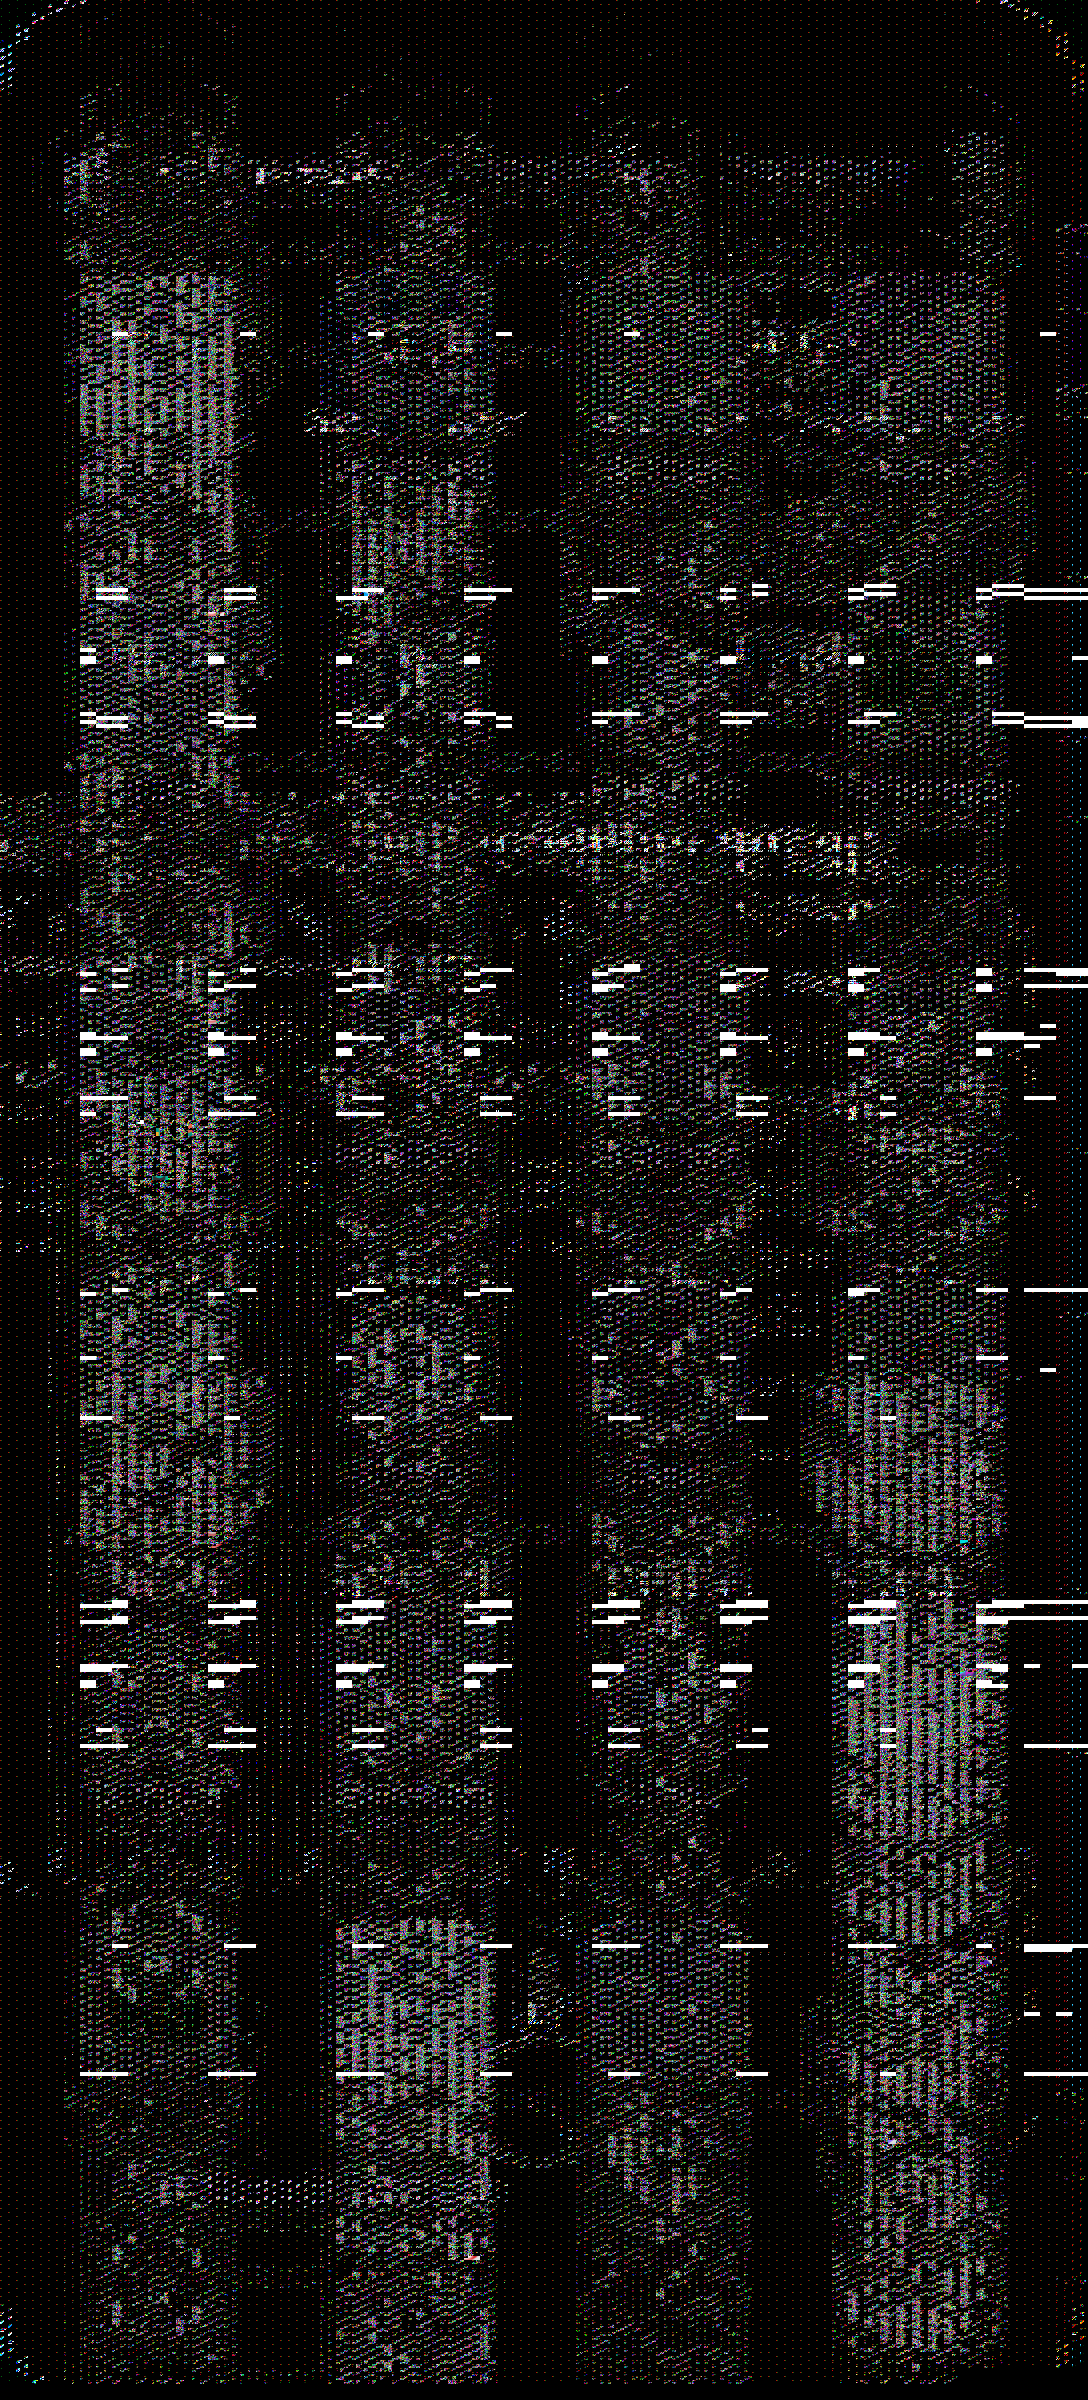
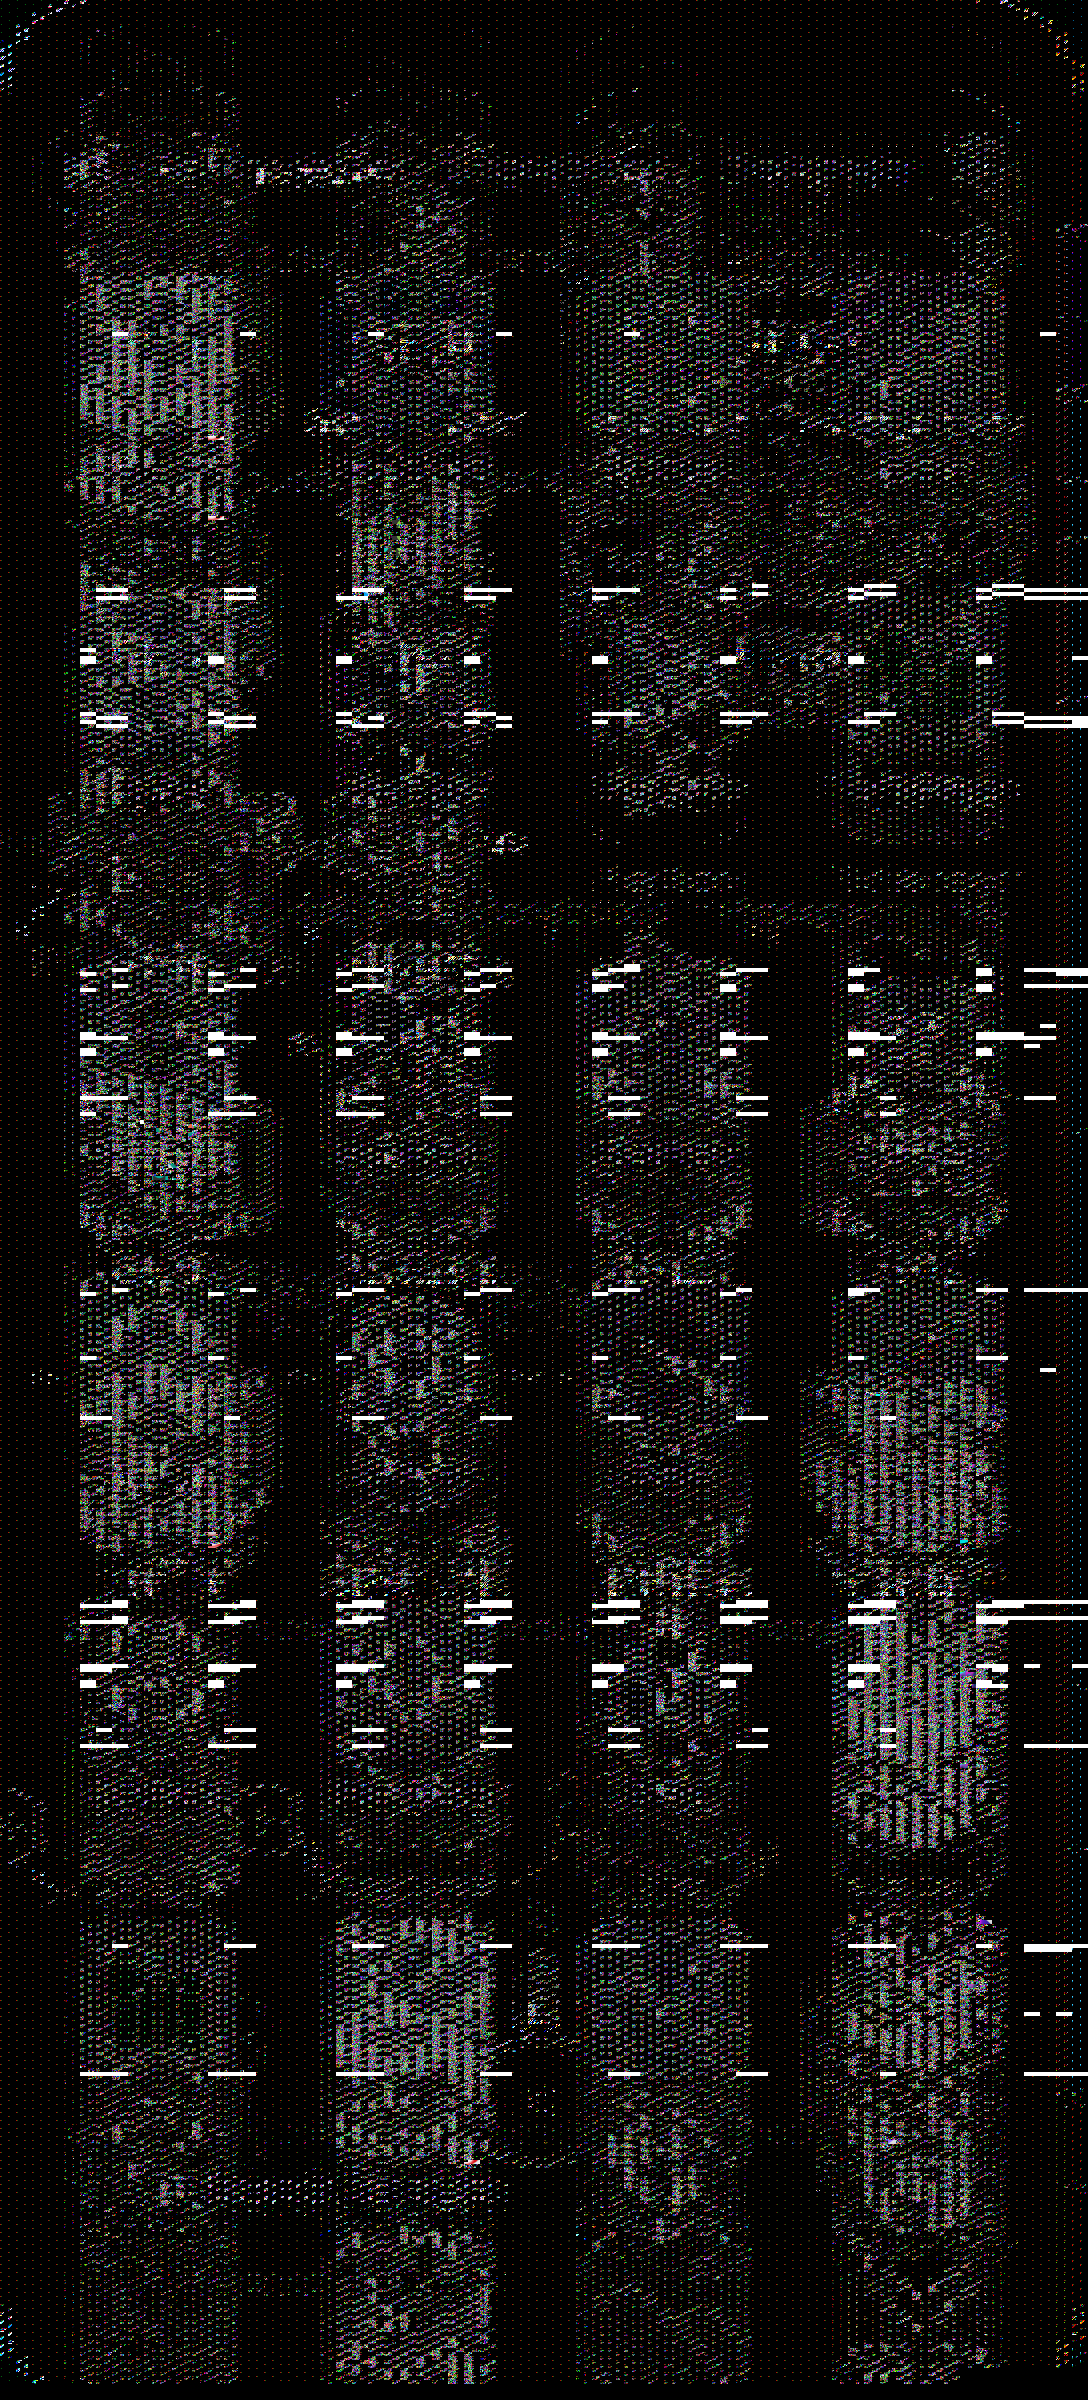
Fix UBWC meta-plane shaping and add analyzer
This change fixes the meta-plane reshape in ubwc_tiling.py to ignore the 4K padded tail when building the block grid, while keeping the correct color-plane offset. It also adds analyze_block_headers.py, a debugging tool that slices contiguous raw block records from captures and compares header bytes against known solid colors to help reverse-engineer UBWC block formats. The PNG asset was updated as part of the same working tree.

diff --git a/ubwc_decoder_v2/analyze_block_headers.py b/ubwc_decoder_v2/analyze_block_headers.py
@@ -1,0 +1,204 @@
+#!/usr/bin/env python3
+"""
+analyze_block_headers.py — pull apart the still-unsolved generic UBWC
+compression code (0x11 by default) by extracting the TRUE contiguous
+256-byte block record (not the pixel-swizzled view decode_ubwc.py uses
+for display) and lining it up against known ground-truth colors.
+
+Key insight this tool is built around:
+  get_pixel_offset(x_pix, y_pix) * cpp, for x_pix in [0,16) and y_pix in
+  [0,4), bijects onto [0, 256) for cpp=4. It only permutes bytes WITHIN
+  a block. block_x_xormask/block_y_xormask/bank math give a single base
+  address per block that doesn't depend on x_pix/y_pix. So each block's
+  256 bytes live in one contiguous span [block_base, block_base+256) in
+  the tiled color plane -- we can slice it directly with plain Python
+  slicing, no swizzle needed, and look at it as a raw compressed record.
+
+Input files: raw captures saved by decode_ubwc.py --save-raw, i.e.
+  [16-byte header: magic,u32 W,u32 H,u32 pitch][raw payload bytes]
+
+Usage:
+  # Single capture, just dump header-byte stats for all 0x11 blocks
+  python3 analyze_block_headers.py capture_black_0000.bin
+
+  # Multiple captures with known solid RGBA fill color, to correlate
+  # header bytes against the color that produced them
+  python3 analyze_block_headers.py \
+      --known captures/red_0000.bin=255,0,0,255 \
+      --known captures/green_0000.bin=0,255,0,255 \
+      --known captures/blue_0000.bin=0,0,255,255 \
+      --known captures/gray128_0000.bin=128,128,128,255 \
+      --code 0x11 --header-len 12
+
+  # Look at ONE specific block's full raw record (any code), e.g. the
+  # exact block quoted in the notes
+  python3 analyze_block_headers.py capture.bin --block-xy 5 5 --dump-full
+"""
+import argparse
+import struct
+import sys
+from collections import Counter, defaultdict
+
+import numpy as np
+
+sys.path.insert(0, "/home/claude")
+from ubwc_tiling import (
+    compute_meta_plane_size, meta_grid, get_block_size,
+    block_x_xormask, block_y_xormask, get_bank_mask, get_bank_shift,
+    MACROTILE_8_CHANNEL,
+)
+
+MAGIC = 0x46425354
+
+
+def load_capture(path):
+    with open(path, "rb") as f:
+        hdr = f.read(16)
+        magic, w, h, pitch = struct.unpack("<IIII", hdr)
+        if magic != MAGIC:
+            raise ValueError(f"{path}: bad magic 0x{magic:08x} (not a decode_ubwc.py --save-raw file)")
+        payload = np.frombuffer(f.read(), dtype=np.uint8)
+    return w, h, pitch, payload
+
+
+def block_base_offset(bx, by, pitch, cpp, highest_bank_bit, bank_swizzle_levels, macrotile_mode):
+    """
+    Single-block version of the addressing math in ubwc_tiling.ubwc_detile.
+    Returns the byte offset, within the color plane, of this block's first
+    (swizzled-position-0) byte. The block's other 255 bytes are exactly
+    [offset, offset+256) -- see module docstring for why that's guaranteed.
+    """
+    block_width, _ = get_block_size(cpp)
+    macrotile_stride = pitch // (4 * block_width * cpp)
+    bank_mask = get_bank_mask(macrotile_stride, cpp, highest_bank_bit, bank_swizzle_levels)
+    bank_shift = get_bank_shift(highest_bank_bit)
+    macrotile_pitch = macrotile_stride * 4096
+
+    x_mask = int(block_x_xormask(np.array([bx]), cpp, macrotile_mode)[0])
+    y_mask = int(block_y_xormask(np.array([by]), cpp, bank_mask, bank_shift, macrotile_mode)[0])
+    base_row = macrotile_pitch * (by // 4)
+    return base_row + (x_mask ^ y_mask)
+
+
+def iter_blocks_with_code(path, target_code, cpp, highest_bank_bit, bank_swizzle_levels, macrotile_mode):
+    w, h, pitch, payload = load_capture(path)
+    meta, meta_size = meta_grid(payload, w, h, cpp)
+    color_plane = payload[meta_size:]
+    blocks_h, blocks_w = meta.shape
+
+    ys, xs = np.where(meta == target_code)
+    for by, bx in zip(ys.tolist(), xs.tolist()):
+        off = block_base_offset(bx, by, pitch, cpp, highest_bank_bit, bank_swizzle_levels, macrotile_mode)
+        if off + 256 > color_plane.shape[0]:
+            continue  # truncated capture, skip
+        block = bytes(color_plane[off:off + 256])
+        yield bx, by, off, block
+
+
+def dump_full_block(path, bx, by, cpp, highest_bank_bit, bank_swizzle_levels, macrotile_mode):
+    w, h, pitch, payload = load_capture(path)
+    meta, meta_size = meta_grid(payload, w, h, cpp)
+    color_plane = payload[meta_size:]
+    code = int(meta[by, bx])
+    off = block_base_offset(bx, by, pitch, cpp, highest_bank_bit, bank_swizzle_levels, macrotile_mode)
+    block = bytes(color_plane[off:off + 256])
+    print(f"{path}  block ({bx},{by})  meta_code=0x{code:02x}  base_offset=0x{off:x}")
+    for row in range(0, 256, 16):
+        chunk = block[row:row + 16]
+        hexs = " ".join(f"{b:02x}" for b in chunk)
+        print(f"  +{row:3d}: {hexs}")
+    nz = sum(1 for b in block if b != 0)
+    print(f"  non-zero bytes: {nz}/256, first non-zero-terminated run: "
+          f"{len(block) - len(block.rstrip(bytes([0])))} trailing zeros stripped")
+
+
+def header_stats(headers, header_len):
+    """Per-byte-position min/max/mean/mode across a list of header byte-strings."""
+    arr = np.array([list(h[:header_len]) for h in headers], dtype=np.uint8)
+    lines = []
+    for i in range(header_len):
+        col = arr[:, i]
+        counts = Counter(col.tolist())
+        mode_val, mode_n = counts.most_common(1)[0]
+        lines.append(
+            f"    byte[{i:2d}]  min={col.min():3d} max={col.max():3d} "
+            f"mean={col.mean():6.1f}  mode=0x{mode_val:02x} ({mode_n}/{len(col)})"
+        )
+    return "\n".join(lines)
+
+
+def main():
+    ap = argparse.ArgumentParser(description=__doc__, formatter_class=argparse.RawDescriptionHelpFormatter)
+    ap.add_argument("captures", nargs="*", help="capture .bin files (unlabeled mode)")
+    ap.add_argument("--known", action="append", default=[],
+                     help="path=R,G,B,A -- a capture with a known solid fill color, can repeat")
+    ap.add_argument("--code", type=lambda s: int(s, 0), default=0x11, help="meta code to analyze (default 0x11)")
+    ap.add_argument("--cpp", type=int, default=4)
+    ap.add_argument("--highest-bank-bit", type=int, default=13)
+    ap.add_argument("--bank-swizzle-levels", type=int, default=0x7)
+    ap.add_argument("--macrotile-mode", default=MACROTILE_8_CHANNEL)
+    ap.add_argument("--header-len", type=int, default=12, help="how many leading bytes per block to treat as 'header'")
+    ap.add_argument("--max-print", type=int, default=8, help="how many example raw headers to print per capture")
+    ap.add_argument("--block-xy", nargs=2, type=int, metavar=("BX", "BY"),
+                     help="dump one specific block's full 256-byte record instead of aggregate stats")
+    ap.add_argument("--dump-full", action="store_true", help="use with --block-xy")
+    args = ap.parse_args()
+
+    common = dict(cpp=args.cpp, highest_bank_bit=args.highest_bank_bit,
+                  bank_swizzle_levels=args.bank_swizzle_levels, macrotile_mode=args.macrotile_mode)
+
+    if args.block_xy:
+        path = (args.captures + [k.split("=")[0] for k in args.known])[0]
+        dump_full_block(path, args.block_xy[0], args.block_xy[1], **common)
+        return
+
+    known_entries = []
+    for k in args.known:
+        path, rgba = k.split("=")
+        r, g, b, a = (int(x) for x in rgba.split(","))
+        known_entries.append((path, (r, g, b, a)))
+
+    all_entries = [(p, None) for p in args.captures] + known_entries
+
+    per_capture_headers = {}
+    for path, color in all_entries:
+        headers = []
+        n_blocks = 0
+        for bx, by, off, block in iter_blocks_with_code(path, args.code, **common):
+            headers.append(block[:args.header_len])
+            n_blocks += 1
+        per_capture_headers[path] = (color, headers)
+
+        label = f"known color {color}" if color else "color unknown"
+        print(f"\n=== {path}  ({label}) -- {n_blocks} blocks with code 0x{args.code:02x} ===")
+        if n_blocks == 0:
+            print("  (none found -- wrong code, or capture is truncated)")
+            continue
+
+        uniq = Counter(headers)
+        print(f"  {len(uniq)} distinct header byte-patterns among {n_blocks} blocks")
+        print("  most common headers (hex):")
+        for h, cnt in uniq.most_common(args.max_print):
+            print(f"    {' '.join(f'{b:02x}' for b in h)}   x{cnt}")
+        print("  per-byte-position stats:")
+        print(header_stats(headers, args.header_len))
+
+    # Cross-capture correlation, only meaningful when >=2 known colors given
+    known_only = [(p, c, h) for p, (c, h) in per_capture_headers.items() if c is not None]
+    if len(known_only) >= 2:
+        print("\n=== Cross-capture comparison (known colors) ===")
+        print("  If a byte position's mean tracks a color channel roughly "
+              "linearly across captures, that's very likely where that "
+              "channel's base value (or a shared luma/base term) lives.")
+        for i in range(args.header_len):
+            print(f"\n  byte[{i}]:")
+            for p, c, h in known_only:
+                if not h:
+                    continue
+                vals = [x[i] for x in h]
+                mean = sum(vals) / len(vals)
+                print(f"    color={c!s:20s} mean=byte[{i}]={mean:6.1f}")
+
+
+if __name__ == "__main__":
+    main()

diff --git a/ubwc_decoder_v2/ubwc_tiling.py b/ubwc_decoder_v2/ubwc_tiling.py
@@ -111,7 +111,11 @@ def meta_grid(payload: np.ndarray, width: int, height: int, cpp: int, r8g8: bool
     block_width, block_height = get_block_size(cpp, r8g8)
     blocks_w = (width + block_width - 1) // block_width
     blocks_h = (height + block_height - 1) // block_height
-    meta = payload[:meta_size].reshape(meta_height, meta_pitch)
+    # meta_size is meta_pitch*meta_height padded up to a 4K boundary (the
+    # padding is real space in the buffer, but it isn't part of the
+    # meta_height x meta_pitch grid) -- reshape only the unpadded region,
+    # then use meta_size (the padded value) as the color-plane start offset.
+    meta = payload[:meta_pitch * meta_height].reshape(meta_height, meta_pitch)
     return meta[:blocks_h, :blocks_w], meta_size
 
 
